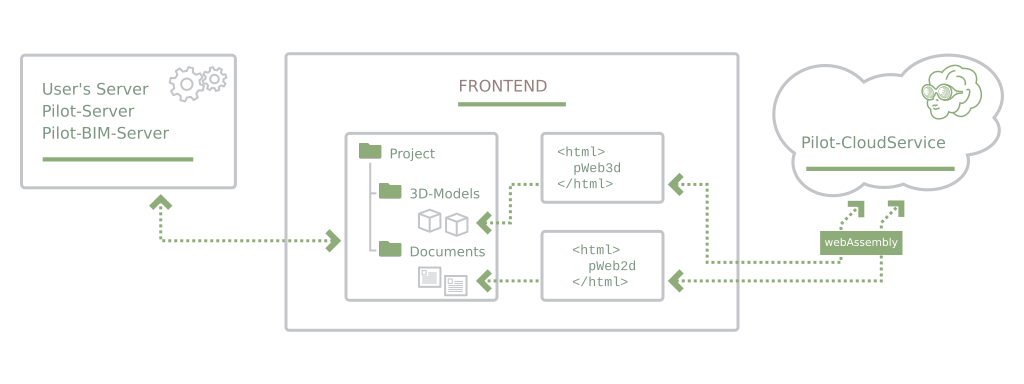
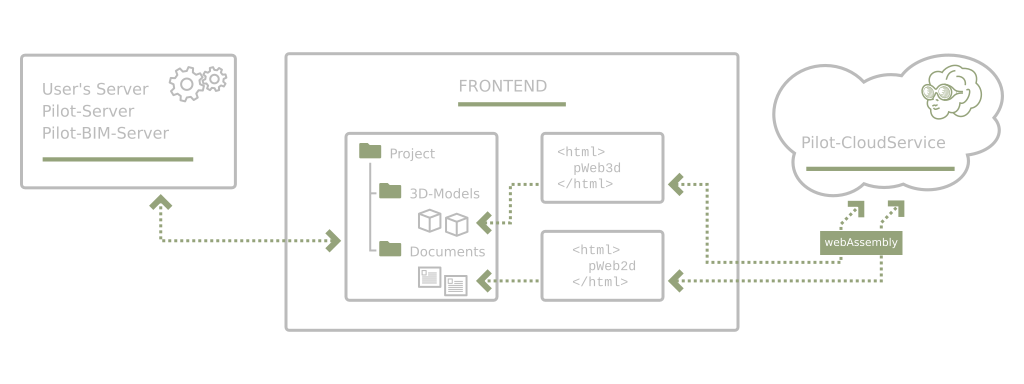
3-404 license, scheme

diff --git a/static/custom.css b/static/custom.css
@@ -32,8 +32,8 @@
 
   --footer-background: #95a37b;
   --footer-font-color: #ffffff;
-  --footer-link-color: #d9e1b5;
-  --footer-link-color-visited: #d9e1b5;
+  --footer-link-color: #ffffff;
+  --footer-link-color-visited: #bbbbbb;
 }
 @media (prefers-color-scheme: light) {
   :root {
@@ -70,8 +70,8 @@
 
     --footer-background: #95a37b; 
     --footer-font-color: #ffffff;
-    --footer-link-color: #d9e1b5;
-    --footer-link-color-visited: #d9e1b5;
+    --footer-link-color: #ffffff;
+    --footer-link-color-visited: #bbbbbb;
   }
 }
 
@@ -110,8 +110,8 @@
 
   --footer-background: #95a37b;
   --footer-font-color: #ffffff;
-  --footer-link-color: #d9e1b5;
-  --footer-link-color-visited: #d9e1b5;
+  --footer-link-color: #ffffff;
+  --footer-link-color-visited: #bbbbbb;
   
 
 }
@@ -150,8 +150,8 @@
 
     --footer-background: #95a37b;
     --footer-font-color: #ffffff;
-    --footer-link-color: #d9e1b5;
-    --footer-link-color-visited: #d9e1b5;
+    --footer-link-color: #ffffff;
+    --footer-link-color-visited: #bbbbbb;
   }
 }
 

diff --git a/content/overview/_index.md b/content/overview/_index.md
@@ -21,7 +21,7 @@ resources:
 С помощью этих компонентов решаются задачи отображения в браузерах информационных моделей (BIM) и документов, навигации по ним, работы с данными трёхмерных моделей,
 в том числе скрытия элементов модели, изменения их цвета, получения свойств, выполнения измерений. 
 
-#### Информационные модели
+### Информационные модели
 
 Для загрузки моделей в компоненты **PilotWeb3D** и **PilotBimDataProvider** используются файлы **.bm**, формируемые сервисом **Pilot-BIM-Server**. Файлы **.bm** -- 
 это контейнер данных информационной модели.
@@ -30,7 +30,7 @@ resources:
 <iframe height="580px" width="100%" style="box-sizing: border-box; border: 0px;" src="https://stackblitz.com/edit/web-platform-v9kotm?embed=1&file=index.html&hideDevTools=1&hideExplorer=1&hideNavigation=1&theme=light&view=preview"></iframe>
 
 
-#### Документы
+### Документы
 
 Для загрузки документов используйте файлы в формате **.xps** (Open XML Paper Specification, ECMA-388).
 
